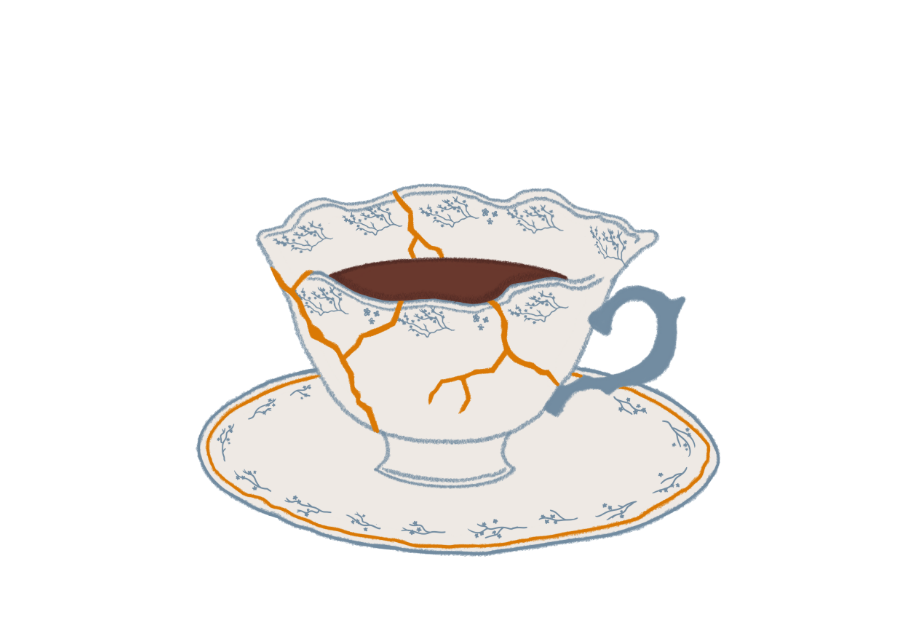
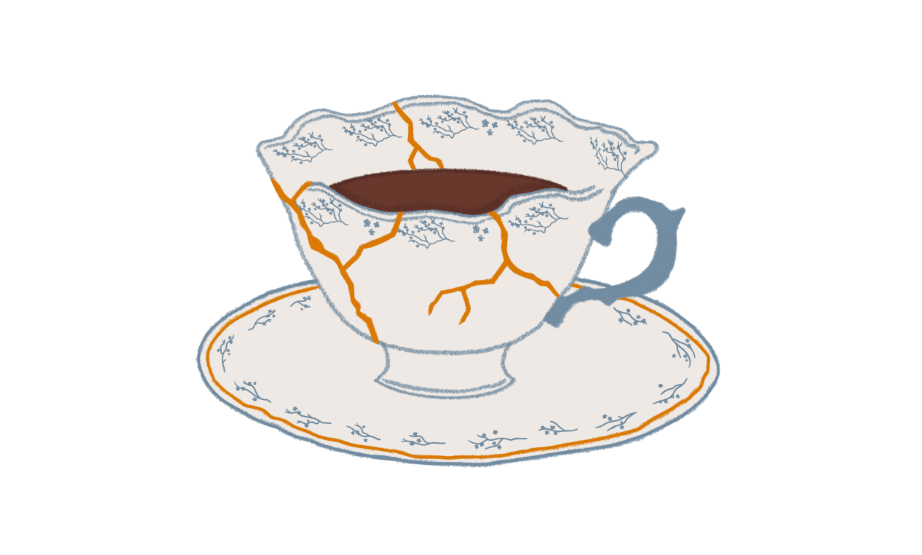
Book Cover page content
Added, arranged and styled paragraphs and images for the book cover page.

Cropped the teacup image.

Still need the colour swatches.

Changed region(s): [[0.2126, 0.1532, 0.7896, 0.8883]]

diff --git a/gd-proj-pages/book-cover.html b/gd-proj-pages/book-cover.html
@@ -3,7 +3,186 @@
   <head>
     <meta charset="UTF-8" />
     <meta name="viewport" content="width=device-width, initial-scale=1.0" />
-    <title>Document</title>
+    <title>Paula Lucane portfolio</title>
+    <!-- link bootstrap 5 -->
+    <link
+      href="https://cdn.jsdelivr.net/npm/bootstrap@5.3.3/dist/css/bootstrap.min.css"
+      rel="stylesheet"
+    />
+    <script src="https://cdn.jsdelivr.net/npm/bootstrap@5.3.3/dist/js/bootstrap.bundle.min.js"></script>
+    <!-- link css file -->
+    <link rel="stylesheet" href="../css/main.css" />
+    <!--link Poppins font family-->
+    <link rel="preconnect" href="https://fonts.googleapis.com" />
+    <link rel="preconnect" href="https://fonts.gstatic.com" crossorigin />
+    <link
+      href="https://fonts.googleapis.com/css2?family=Poppins:ital,wght@0,100;0,200;0,300;0,400;0,500;0,600;0,700;0,800;0,900;1,100;1,200;1,300;1,400;1,500;1,600;1,700;1,800;1,900&display=swap"
+      rel="stylesheet"
+    />
+    <!-- link Roca font family -->
+    <link rel="stylesheet" href="https://use.typekit.net/skg2xns.css" />
   </head>
-  <body></body>
+  <body class="d-flex flex-column min-vh-100">
+    <header>
+      <nav class="navbar navbar-expand-md navbar-dark fixed-top">
+        <!-- logo -->
+        <a class="navbar-brand nested-svg-a" href="../index.html">
+          <object
+            class="clickable-svg"
+            data="../img/navbar-logo-light.svg"
+            type="image/svg+xml"
+            height="25"
+          ></object>
+        </a>
+        <!-- button for collapsible navbar -->
+        <button
+          class="navbar-toggler"
+          type="button"
+          data-bs-toggle="collapse"
+          data-bs-target="#collapsibleNavbar"
+        ></button>
+        <!-- navigation -->
+        <div class="collapse navbar-collapse" id="collapsibleNavbar">
+          <ul class="navbar-nav">
+            <li class="nav-item">
+              <a class="nav-link" href="../index.html">Home</a>
+            </li>
+            <li class="nav-item">
+              <a class="nav-link" href="../projects.html">Graphic Design</a>
+            </li>
+            <li class="nav-item">
+              <a class="nav-link" href="../webdev.html">Web Development</a>
+            </li>
+            <li class="nav-item">
+              <a class="nav-link" href="../about.html">About</a>
+            </li>
+          </ul>
+        </div>
+      </nav>
+    </header>
+    <main class="container flex-grow-1">
+      <h2 class="project-title-page-heading">Illustrated Book Cover</h2>
+      <div class="row">
+        <div>
+          <p class="col-lg-4 col-md-6 proj-desc">
+            This is an illustrated book cover for Toshikazu Kawaguchi's
+            <span class="mimic-h3">Before the Coffee Gets Cold.</span>
+          </p>
+          <p class="col-lg-4 col-md-6 proj-desc">
+            This project was created as part of content creation course at
+            Jönköping University. I chose this specific book because it is one
+            of my favourites and the themes explored in the story felt
+            especially inspirational. Read more about the creation process
+            below!
+          </p>
+          <p class="col-lg-4 col-md-6 proj-desc-createdwith">
+            Created with: ProCreate, Adobe Illustrator, Adobe Photoshop
+          </p>
+        </div>
+      </div>
+      <section class="row">
+        <img
+          class="img-fluid pt-3"
+          src="../img/illustrations/book-cover-mockup-transp.png"
+          alt="stacked books showcasing the front cover"
+        />
+      </section>
+      <section class="proj-indepth-desc-section">
+        <p class="proj-desc">
+          This novel is set in Tokyo, Japan, in a small café. It follows
+          different characters, all somehow connected, as they travel back in
+          time to visit their loved ones from the past. There is just one rule
+          they absolutely have to remember, they have to return to the present
+          before the coffee gets cold.
+        </p>
+        <h3>Concept and Themes</h3>
+        <p class="proj-desc">
+          To represent the title of the book and the central theme of coffee and
+          the limited time I Illustrated a coffee cup, the steam of which forms
+          the watch hands showing the time. The hours are not represented by
+          real numbers but just by two lines, as the concept of time in this
+          novel is a little warped and unclear.
+        </p>
+        <p class="proj-desc">
+          Additional themes of this book are love, relationships, regret and
+          grief, and, of course, a little bit of magic in the ordinary. I chose
+          darker shades of pink for love, blue for grief, the brown for coffee
+          and the dark wood furniture inside the café. The overall color palette
+          is representative of the vintage, heartfelt, cosy, and a little dark
+          aesthetic of the story.
+        </p>
+      </section>
+      <section class="proj-indepth-desc-section pt-0">
+        <img
+          class="img-fluid"
+          src="../img/illustrations/book-cover-cup-illustration.png"
+          alt="illustrated cup in Japanese art of kintsugi style"
+        />
+      </section>
+      <section class="proj-indepth-desc-section">
+        <h3>Japanese Influence</h3>
+        <p class="proj-desc">
+          When illustrating the coffee cup I searched for inspiration in
+          Japanese china design. I came across the Japanese art of kintsugi,
+          where a piece of ceramic has been repaired with visible golden joins.
+          This method celebrates imperfection and the history of the object.
+        </p>
+        <p class="proj-desc">
+          I thought it was an excellent fit for the cover as it visually
+          represents the healing and transformation that the characters go
+          through as they return back to present, after visiting the past. It
+          also represents the passing of time, and is, of course, connected to
+          coffee.
+        </p>
+        <p class="proj-desc">
+          For the background, I took inspiration from vintage Japanese wallpaper
+          and included the illustrations of cherry blossoms, cranes, Mount Fuji
+          and a temple silhouette.
+        </p>
+      </section>
+      <section class="proj-indepth-desc-section">
+        <img
+          class="img-fluid py-3"
+          src="../img/illustrations/book-cover-illustrations.png"
+          alt="Japanese inspired illustrations"
+        />
+        <h3>The Final Design</h3>
+        <img
+          class="img-fluid last-proj-img pt-3"
+          src="../img/illustrations/book-cover-final-product.png"
+          alt="flatlay of the finished book cover"
+        />
+      </section>
+    </main>
+    <footer class="mt-auto">
+      <div class="footer-contacts-div">
+        <a
+          class="nested-svg-a"
+          id="footer-linkedin-icon"
+          href="https://www.linkedin.com/in/paula-luc%C4%81ne-5b3207324/"
+          target="_blank"
+        >
+          <object
+            class="clickable-svg"
+            data="../img/logo/linkedin-black.svg"
+            type="image/svg+xml"
+            width="30"
+          ></object
+        ></a>
+        <a
+          class="nested-svg-a"
+          id="footer-email-icon"
+          href="mailto:paula.lucane@gmail.com"
+          target="_blank"
+        >
+          <object
+            class="clickable-svg"
+            data="../img/logo/mail.svg"
+            type="image/svg+xml"
+            width="30"
+          ></object
+        ></a>
+      </div>
+    </footer>
+  </body>
 </html>

diff --git a/css/main.css b/css/main.css
@@ -256,7 +256,8 @@ footer {
   margin-bottom: 1rem;
   margin-top: 2rem;
 }
-h3 {
+h3,
+.mimic-h3 {
   font-family: "roca", sans-serif;
   font-weight: 500;
   font-size: 1rem;
